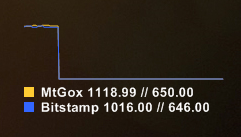
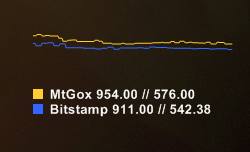
Updated Readme, changed Graph screenshot, added linecolor options to Options.inc

Changed region(s): [[0.0871, 0.1752, 0.9295, 0.8467]]

diff --git a/README.md b/README.md
@@ -8,9 +8,7 @@ TODO: Update line graph to be more useful.
 ### Installation
 - Copy RainyBitcoin dir to your Rainmeter skins folder. (C:\Users\Your Username\My Documents\Rainmeter\Skins)
 - Edit Options.inc to your liking
-- Enjoy a frontrow seat to panic selling tactics
-- ?????
-- Profit!
+- Enjoy a frontrow seat to panic sells
 
 
 ### Preview Screenshots
